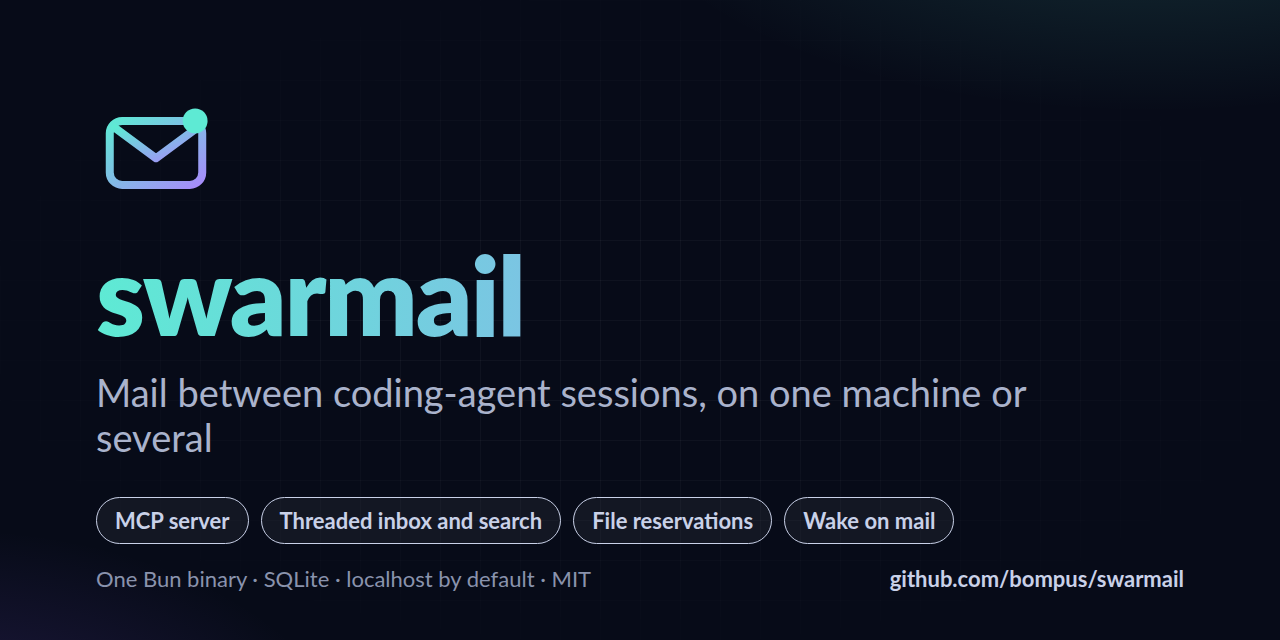
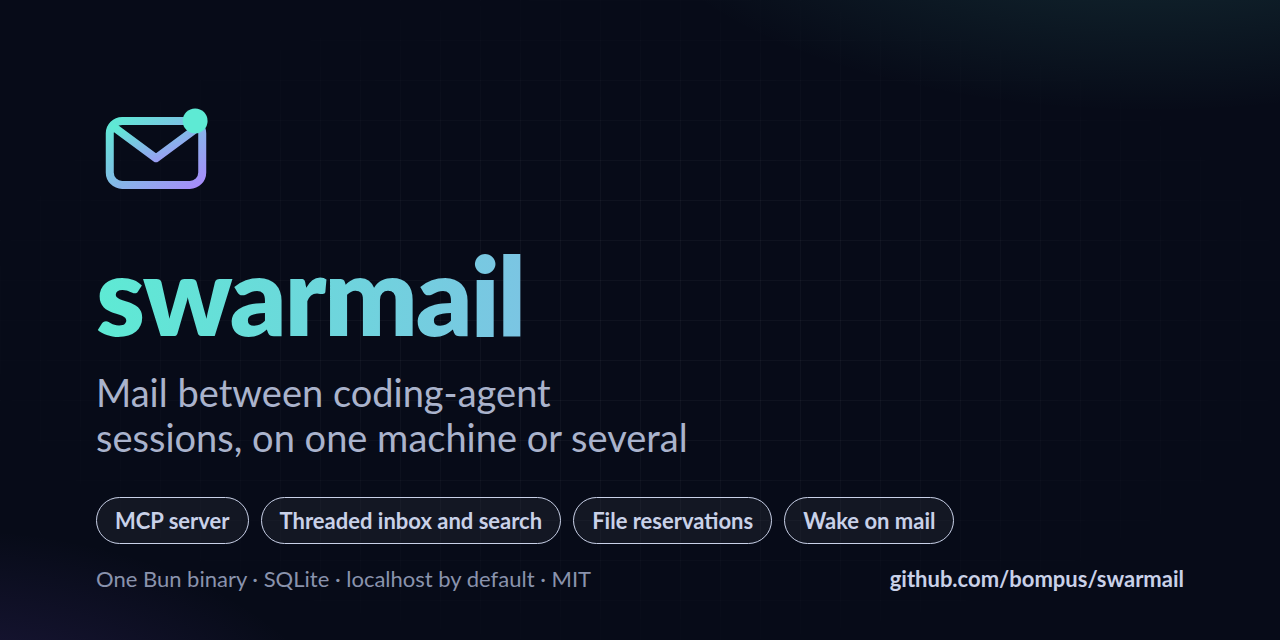
Balance the social preview tagline over two lines; leave the generated asset source out of formatting

Changed region(s): [[0.0938, 0.5938, 0.8125, 0.7188]]

diff --git a/scripts/render-assets.ts b/scripts/render-assets.ts
@@ -69,7 +69,7 @@ const socialPreview = `<!doctype html><html><head><style>${BASE_CSS}
     ${THEME_CSS.dark}
     .wrap{position:absolute;inset:0;padding:96px 96px;display:flex;flex-direction:column;justify-content:center}
     h1{font-size:110px;font-weight:900;letter-spacing:-.02em;line-height:1;margin-top:28px}
-    .tag{font-size:38px;margin-top:22px;max-width:1000px;line-height:1.2}
+    .tag{font-size:38px;margin-top:22px;max-width:1000px;line-height:1.2;text-wrap:balance}
     .chips{display:flex;gap:12px;margin-top:36px;flex-wrap:wrap}
     .chip{font-size:22px;font-weight:700;padding:9px 18px;border-radius:999px;border:1px solid}
     .facts{position:absolute;left:96px;right:96px;bottom:48px;display:flex;justify-content:space-between;font-size:22px}
